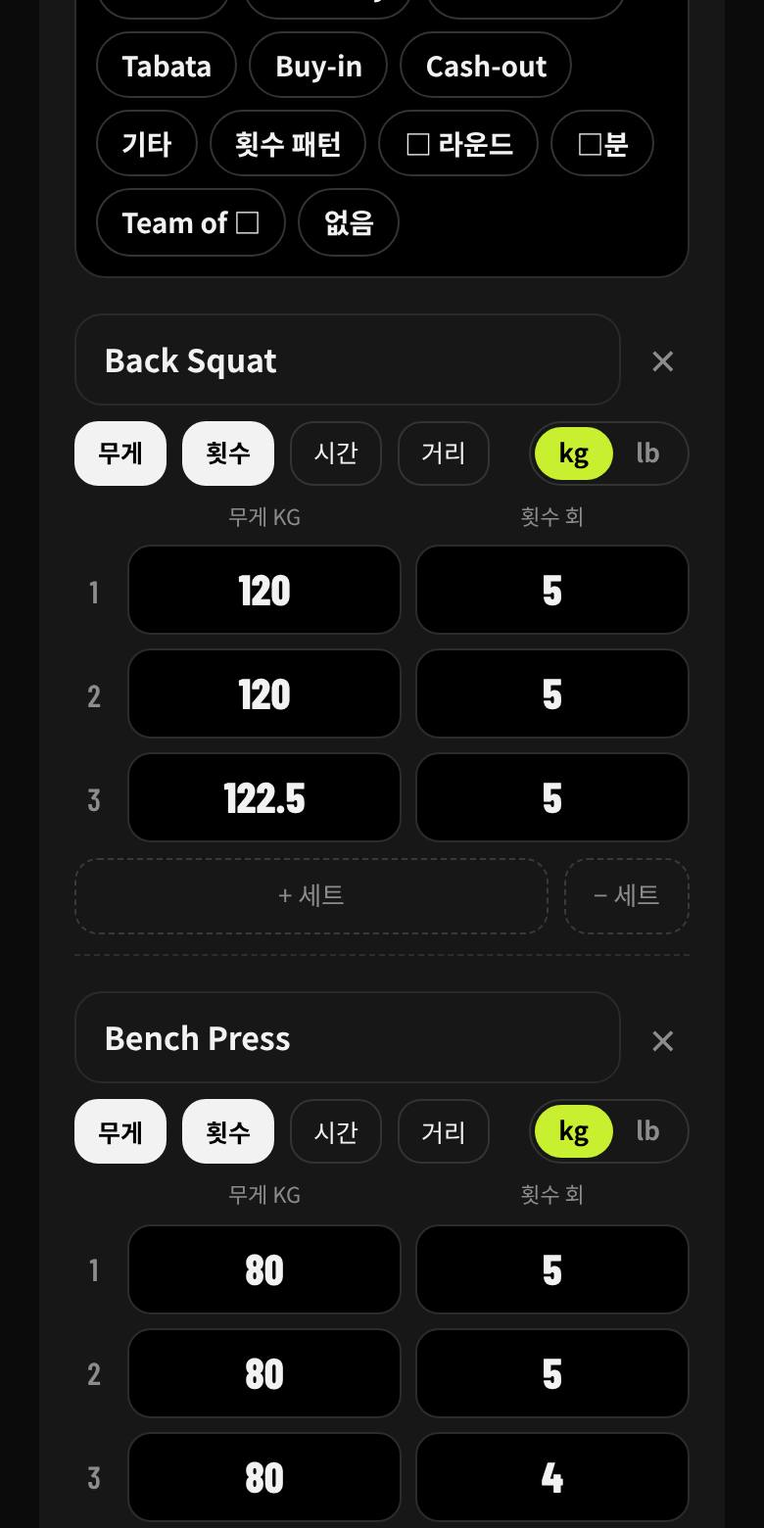
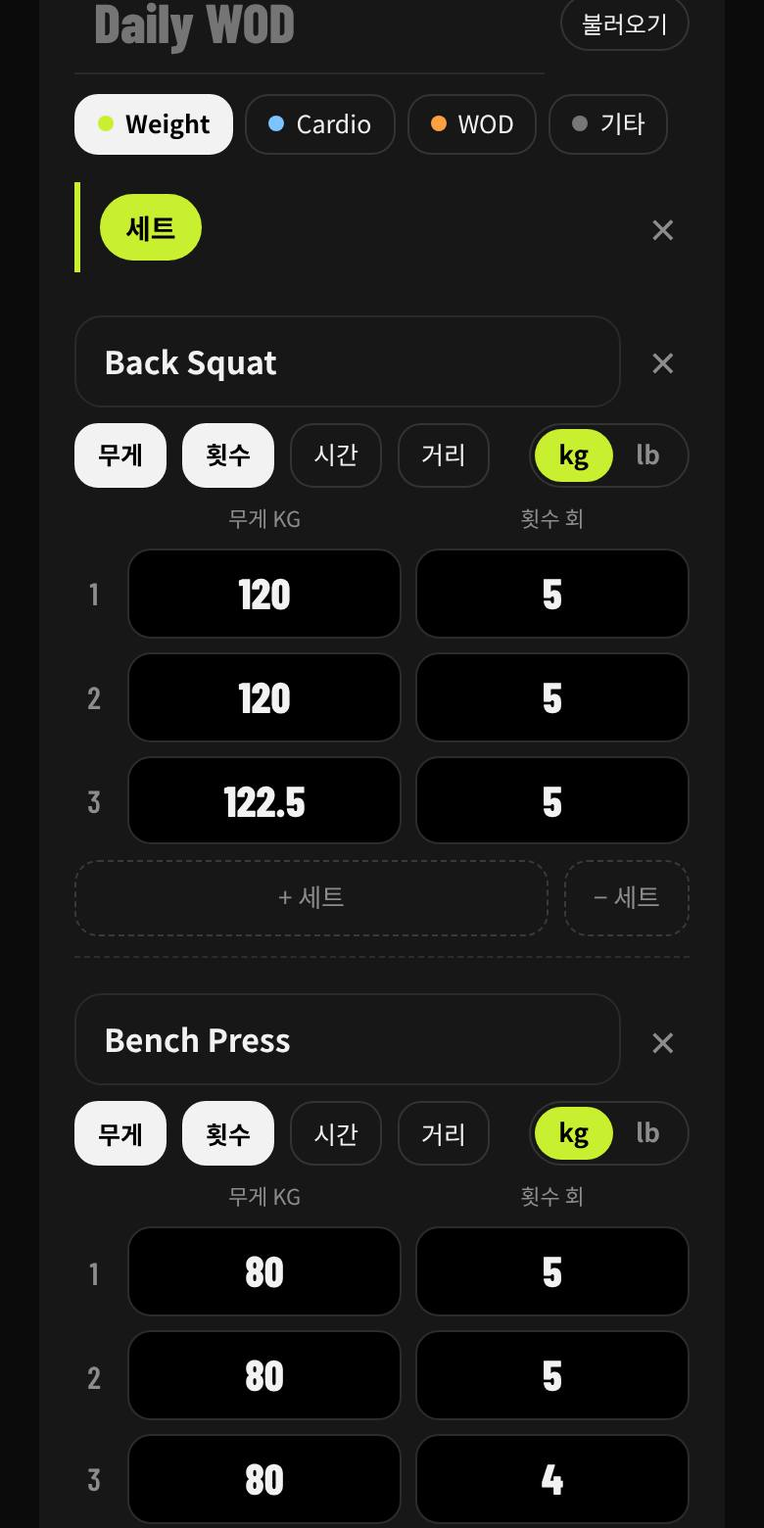
One card per record, category on the card, + 구성 adds lines between exercises, record on the picked day (future opens a plan)
Claude-Session: https://claude.ai/code/session_019eoxjeUYsC1xCLQy9vy9QX

diff --git a/index.html b/index.html
@@ -171,6 +171,8 @@ textarea.inp{resize:vertical;min-height:70px;line-height:1.6}
 .btnrow>.btn{flex:1;min-width:0;white-space:nowrap;overflow:hidden;text-overflow:ellipsis;padding-left:8px;padding-right:8px}
 .chip .dot{display:inline-block;width:8px;height:8px;border-radius:50%;margin-right:6px;vertical-align:1px}
 .smv{display:flex;flex-direction:column;gap:8px;padding:10px 0;border-bottom:1px dashed #2e2e2e}
+.cfg{display:flex;align-items:center;gap:8px;padding:6px 0 6px 10px;border-left:3px solid var(--lime);margin:4px 0}
+.cfg .c2{pointer-events:none}
 .toast{position:absolute;left:50%;top:18px;transform:translateX(-50%);background:var(--lime);color:#000;padding:10px 16px;border-radius:999px;font-size:13px;font-weight:700;z-index:30;white-space:nowrap}
 .search{background:var(--card);border:1px solid var(--line);border-radius:14px;padding:11px 14px;width:100%}
 .cat-row{display:flex;align-items:center;gap:12px;padding:12px 0;border-top:1px solid var(--line);font-size:15px}
@@ -371,6 +373,9 @@ const partRes = p => (p.fmt?.id !== 'none' && p.fmt?.res) || pList(p).map(x => x
 const pList = p => p.pats || (p.pat ? [p.pat] : []);
 const patsLabel = p => pList(p).map(patLabel).filter(Boolean).join(' · ');
 const schemeOfP = p => pList(p).map(schemeOf).find(Boolean) || '';
+/* 구성 lines sit between exercise rows: each has "at" = the row it comes before; a row takes the rep scheme of the last line above it */
+const cfgLines = p => [...(p.fmt?.id && p.fmt.id !== 'none' ? [{kind:'fmt', at:p.fmtAt || 0}] : []), ...pList(p).map((x, k) => ({kind:'pat', k, at:x.at || 0}))].sort((a, b) => a.at - b.at);
+const schemeAt = (p, j) => { let sc = ''; for (const l of cfgLines(p)) if (l.kind === 'pat' && l.at <= j) sc = schemeOf(pList(p)[l.k]) || sc; return sc; };
 const oldPat = p => p && !p.tpl ? patFrom(DEF_PATTERNS.find(t => t.id === p.kind) || DEF_PATTERNS[0], p.v) : p;
 /* "없음": a part with no format; the label stays empty so summaries skip it */
 const NO_FMT = {id:'none', label:'', res:'text'};
@@ -537,6 +542,7 @@ const wodById = id => allNamed().find(w => w.id === id) || state.mine.find(w => 
 const sorted = () => [...state.sessions].sort((a,b) => a.date.localeCompare(b.date));
 const sessionsOn = ds => state.sessions.filter(s => s.date === ds);
 const autoCat = s => { const it = s.items[0]; if (!it) return 'etc'; const k = it.type !== 'wod' ? exById(it.exId)?.cat : it.parts.length === 1 && onlySets(it.parts[0]) ? mvEx(it.parts[0].moves.find(m => m.n.trim()) || {})?.cat : 'wod'; return state.cats.some(c => c.k === k) ? k : 'etc'; };
+const cardCat = it => it.cat && state.cats.some(c => c.k === it.cat) ? it.cat : autoCat({items:[it]});
 const sessionCat = s => s.cat && state.cats.some(c => c.k === s.cat) ? s.cat : autoCat(s);
 
 /* ---------- plans ---------- */
@@ -641,8 +647,8 @@ function render(keep) {
 const GUIDE_KEY = 'setlog-guide-seen';
 const GUIDE = [
   ['캘린더', '날짜를 누르면 그날 기록이 보여요. 칸 아래 색 막대는 기록, 테두리만 있는 건 계획이에요.'],
-  ['기록하기', '구성에서 세트를 고르면 운동마다 세트별 무게와 횟수를 적어요. 지난 무게가 미리 채워져요.'],
-  ['WOD 기록', '방식(For Time, 21-15-9…)은 여러 개 고를 수 있어요. + 방식은 같은 묶음에, + 구간은 A, B로 나눠 기록해요.'],
+  ['기록하기', '+ 구성에서 세트를 넣으면 운동마다 세트별 무게와 횟수를 적어요. 지난 무게가 미리 채워져요.'],
+  ['WOD 기록', '+ 구성을 누를 때마다 For Time, 21-15-9 같은 줄이 하나씩 쌓여요. + 구간은 A, B로 나눠 기록해요.'],
   ['WOD 모음', '네임드 WOD와 내가 만든 WOD를 저장해 두고 바로 불러와요. 네임드 WOD도 직접 추가할 수 있어요.'],
   ['돌아보기', '주간 목표 연속 기록과 운동별 성장 그래프를 봐요.']
 ];
@@ -694,7 +700,7 @@ function viewCal() {
   ${ui.view !== 'list' ? `<div class="legend">${cats().filter(c => !ui.hidden.includes(c.k)).map(c => `<span><i style="background:${c.color}"></i>${c.label}</span>`).join('')}<span><i style="border:1.5px dashed #888;height:6px"></i>계획</span></div>
   <div class="eb" style="${ui.sel === TODAY() ? 'color:var(--lime)' : ''}">${dayLabel(ui.sel)}${ui.sel === TODAY() ? ' · 오늘' : ''}</div>
   <div class="card list" style="padding:4px 16px">${ev.map(e => entryRow(e, ui.sel)).join('') || `<div class="empty">${ui.sel > TODAY() ? '이날은 계획이 없어요.' : '이날은 기록이 없어요.'}</div>`}</div>` : ''}
-  <div class="sticky"><button class="btn lime" id="recBtn" data-action="record">+ 기록하기</button></div>`;
+  <div class="sticky"><button class="btn lime" id="recBtn" data-action="record">${ui.sel > TODAY() ? `+ ${md(ui.sel)} 계획 만들기` : ui.sel === TODAY() ? '+ 기록하기' : `+ ${md(ui.sel)} 기록하기`}</button></div>`;
 }
 function entryRow(e, ds) {
   const d = parseYmd(ds);
@@ -724,7 +730,7 @@ function pageDay() {
     const wodHero = s.items.filter(i => i.type === 'wod').map(it => { const b = bestWod(it.wodId, s.id), multi = it.parts.length > 1, p0 = it.parts[0];
       return `<div class="hero"><div class="row between"><span class="eb" style="font-weight:700">${esc([it.name, multi ? '' : p0?.fmt.label, multi ? '' : p0 && patsLabel(p0)].filter(Boolean).join(' · '))}</span><span class="pill" style="background:#000;color:var(--lime);border-color:#000;font-weight:700">${esc(it.scale || 'Rx')}</span></div>
       <div class="n" style="font-size:100px;margin-top:2px">${esc(wodResult(it) || '-')}</div><div class="sub">${it.wodId ? b ? `이전 최고 ${esc(b.txt)}` : '첫 기록' : ''}${it.partner ? ` · 파트너 ${esc(it.partner)}` : ''}</div>
-      <div style="margin-top:10px;padding-top:10px;border-top:1px solid rgba(0,0,0,.15);font-weight:500;line-height:1.6">${it.parts.map((p, pi) => `${multi ? `<div style="font-weight:800;margin-top:${pi ? 8 : 0}px">${String.fromCharCode(65 + pi)} · ${esc([p.fmt.label, patsLabel(p), partResult(p)].filter(Boolean).join(' · '))}</div>` : ''}${p.moves.map(m => `<div>${esc(m.sets?.length ? `${m.n} ${setsText(m, mvEx(m) || {unit:'km'})}${m.fields?.includes('w') ? ' ' + (m.u || 'kg') : ''}` : [m.q ? qTxt(m.q) : schemeOfP(p), m.n, m.w].filter(Boolean).join(' '))}</div>`).join('')}`).join('')}</div></div>`; }).join('');
+      <div style="margin-top:10px;padding-top:10px;border-top:1px solid rgba(0,0,0,.15);font-weight:500;line-height:1.6">${it.parts.map((p, pi) => `${multi ? `<div style="font-weight:800;margin-top:${pi ? 8 : 0}px">${String.fromCharCode(65 + pi)} · ${esc([p.fmt.label, patsLabel(p), partResult(p)].filter(Boolean).join(' · '))}</div>` : ''}${p.moves.map((m, j) => `<div>${esc(m.sets?.length ? `${m.n} ${setsText(m, mvEx(m) || {unit:'km'})}${m.fields?.includes('w') ? ' ' + (m.u || 'kg') : ''}` : [m.q ? qTxt(m.q) : schemeAt(p, j), m.n, m.w].filter(Boolean).join(' '))}</div>`).join('')}`).join('')}</div></div>`; }).join('');
     return `<div><div class="eb">${s.mood ? `${s.mood} ${MOODS.find(m => m[0] === s.mood)?.[1] || ''}` : ''}</div><h1 class="disp" style="font-size:52px;margin-top:4px">${esc(s.title || '운동')}</h1>
       <div class="sub" style="margin-top:6px">${[s.duration ? `${s.duration}분` : '', s.place, plan ? `${repeatText(plan)} 계획` : ''].filter(Boolean).map(esc).join(' · ')}</div></div>
       ${heroHtml}${wodHero}
@@ -759,11 +765,10 @@ function pageEdit() {
   ${plan ? `<div class="row wrap" style="gap:8px"><span class="pill lime">${esc(repeatText(plan))} · ${esc(plan.title)} 불러옴</span><span class="sub" style="font-size:12px">지난 무게를 미리 채웠어요</span></div>` : ''}
   <datalist id="exNames">${state.exercises.map(e => `<option value="${esc(e.name)}">`).join('')}</datalist>
   <input class="inp big" id="dTitle" data-d="title" value="${esc(d.title)}" placeholder="오늘 운동 제목 (예: 하체 데이)" aria-label="운동 제목">
-  <div><div class="eb" style="margin-bottom:8px">캘린더 카테고리</div><div class="chips">${cats().map(c => `<button class="chip sm" aria-pressed="${(d.cat || autoCat(d)) === c.k}" data-action="d-cat" data-v="${c.k}"><i class="dot" style="background:${c.color}"></i>${esc(c.label)}</button>`).join('')}</div></div>
   <div><div class="eb" style="margin-bottom:8px">오늘 컨디션</div><div class="chips">${MOODS.map(([e, l]) => `<button class="chip" aria-pressed="${d.mood === e}" data-action="mood" data-v="${e}">${e} ${l}</button>`).join('')}</div></div>
   ${d.items.map((it, i) => it.type === 'wod' ? wodCard(it, i) : exEditCard(it, i)).join('') || '<div class="card empty">아래에서 카드를 추가해 주세요.</div>'}
   ${ui.grouping ? `<div class="groupbar"><span class="sub" style="color:var(--ink)">${ui.groupSel.length}개 선택</span><span class="grow"></span><button class="pill" data-action="group-cancel">취소</button><button class="btn lime small" style="width:auto;padding:10px 18px" data-action="group-do">WOD로 묶기</button></div>`
-    : `<div class="row" style="gap:8px"><button class="btn out small" data-action="add-daily">+ 카드 추가</button><button class="btn out small" data-action="pick-wod">WOD 불러오기</button></div>`}
+    : ''}
   <div class="field"><span class="eb">메모</span><textarea class="inp" id="dMemo" data-d="memo" placeholder="오늘 느낀 점, 다음에 신경 쓸 것">${esc(d.memo)}</textarea></div>
   <input class="inp" id="dPlace" data-d="place" value="${esc(d.place)}" placeholder="장소 (선택)" aria-label="장소">`;
 }
@@ -788,21 +793,10 @@ function usage() { const c = {}; for (const s of state.sessions) for (const it o
 /* one 방식 row: tap to pick or unpick, several at once; a chip with N shows its number box below */
 const chipList = () => [...state.formats, ...state.patterns];
 const chipOn = (fmtId, pats, x) => fmtId === x.id || pats.some(y => y.t === x.id);
-function frameChips(i, pi, p) {
-  const ps = pList(p);
-  if (ui.frEdit) return `<div class="chips2">${chipList().map(x => `<button class="c2" data-action="fr-edit" data-kind="${chipKind(x)}" data-id="${x.id}">${esc(chipText(x))}<span class="x" data-action="fr-del" data-kind="${chipKind(x)}" data-id="${x.id}" role="button" aria-label="${esc(x.label)} 삭제">✕</span></button>`).join('')}<button class="c2 add" data-action="fr-edit">+ 추가</button></div>`;
-  return `<div class="chips2">${chipList().map(x => `<button class="c2 ${chipOn(p.fmt.id, ps, x) ? 'on' : ''}" data-action="set-chip" data-i="${i}" data-pi="${pi}" data-v="${x.id}" data-lp="${chipKind(x)}:${x.id}">${esc(chipText(x))}</button>`).join('')}<button class="c2 ${p.fmt.id === 'none' && !ps.length ? 'on' : ''}" data-action="set-chip" data-i="${i}" data-pi="${pi}" data-v="none">없음</button></div>
-    ${patBoxes(i, pi, p)}`;
-}
-function patBoxes(i, pi, p, short) {
-  const ps = pList(p), dup = x => ps.filter(y => y.t === x.t).length > 1;
-  return ps.map((x, k) => hasN(x) ? `<div class="row" style="gap:6px">${patInput(chipById(x.t) || x, x.v, `data-patv="${pi}" data-pk="${k}" data-i="${i}"`)}${dup(x) ? `<button class="icon" data-action="pat-del" data-i="${i}" data-pi="${pi}" data-pk="${k}" aria-label="${esc(x.label)} 빼기">✕</button>` : ''}</div>` + (short ? '' : recentPat(chipById(x.t) || x, `data-action="set-patv" data-i="${i}" data-pi="${pi}" data-pk="${k}"`)) : '').join('');
-}
-/* "+ 방식": one more chip in the same group of exercises (21-15-9 and 42-30-18 together), no new section */
 function sheetChipAdd(i, pi) {
   ui.sheet = () => sheetChipAdd(i, pi);
-  openSheet(`<div class="row between"><h2 class="disp" style="font-size:28px">방식 추가</h2><button class="pill" data-action="close-sheet">닫기</button></div>
-    <div class="sub" style="font-size:13px">구간을 나누지 않고 이 운동들에 방식을 하나 더 넣어요. 같은 칩도 여러 번 넣을 수 있어요. 예: 21-15-9 + 42-30-18</div>
+  openSheet(`<div class="row between"><h2 class="disp" style="font-size:28px">구성 추가</h2><button class="pill" data-action="frames-open">구성 편집</button></div>
+    <div class="sub" style="font-size:13px">고른 구성이 카드에 한 줄로 들어가요. 그 아래에 운동을 넣으면 돼요. 예: 21-15-9 → 운동들 → 42-30-18 → 운동들</div>
     <div class="chips2">${chipList().map(x => `<button class="c2" data-action="chip-add-pick" data-i="${i}" data-pi="${pi}" data-v="${x.id}">${esc(chipText(x))}</button>`).join('')}</div>`);
 }
 /* pick or unpick chip id on {fmt, pats}; the first picked format chip stays in fmt (it sets how the result is written) */
@@ -828,25 +822,32 @@ function resInput(attrs, v, type) {
   const R = RES_TYPES[type] || RES_TYPES.text;
   return `<input ${attrs} inputmode="${R.mode}" value="${esc(v || '')}" placeholder="${R.ph || '결과'}">`;
 }
+function cfgLineHtml(i, pi, p, l) {
+  const del = `<button class="icon" data-action="cfg-del" data-i="${i}" data-pi="${pi}" data-kind="${l.kind}" data-k="${l.k ?? ''}" aria-label="구성 빼기">✕</button>`;
+  if (l.kind === 'fmt') return `<div class="cfg"><span class="c2 on">${esc(p.fmt.label)}</span><span class="grow"></span>${del}</div>`;
+  const x = pList(p)[l.k], t = chipById(x.t) || x;
+  return hasN(x) ? `<div class="cfg">${patInput(t, x.v, `data-patv="${pi}" data-pk="${l.k}" data-i="${i}"`)}<span class="grow"></span>${del}</div>${x.v ? '' : recentPat(t, `data-action="set-patv" data-i="${i}" data-pi="${pi}" data-pk="${l.k}"`)}`
+    : `<div class="cfg"><span class="c2 on">${esc(chipText(t))}</span><span class="grow"></span>${del}</div>`;
+}
 function partHtml(it, i, p, pi) {
-  const multi = it.parts.length > 1, scheme = schemeOfP(p);
-  const head = multi
-    ? `<div class="fdiv"><span class="t">${String.fromCharCode(65 + pi)}</span><button class="c2 on" data-action="frame-edit" data-i="${i}" data-pi="${pi}">${esc(p.fmt.label || '방식 없음')}</button>${pList(p).map(x => `<button class="c2 val" data-action="frame-edit" data-i="${i}" data-pi="${pi}">${esc(patLabel(x))}</button>`).join('')}<span class="grow"></span><button class="icon" data-action="part-del" data-i="${i}" data-pi="${pi}" aria-label="${String.fromCharCode(65 + pi)} 구간 없애기">✕</button></div>${patBoxes(i, pi, p, true)}`
-    : `<div class="frame"><div class="row between"><span class="lbl">구성</span><button class="pill ${ui.frEdit ? 'lime' : ''}" style="font-size:12px;padding:3px 10px" data-action="fr-toggle">${ui.frEdit ? '완료' : '편집'}</button></div>${frameChips(i, pi, p)}${ui.frEdit ? '<div class="sub" style="font-size:12px">칩을 누르면 수정, ✕는 삭제예요. 칩을 꾹 누르면 순서도 바꿀 수 있어요.</div>' : ''}</div>`;
+  const multi = it.parts.length > 1, L = cfgLines(p), n = p.moves.length;
+  const linesAt = j => L.filter(l => j === n ? l.at >= n : l.at === j).map(l => cfgLineHtml(i, pi, p, l)).join('');
+  const head = multi ? `<div class="fdiv"><span class="t">${String.fromCharCode(65 + pi)}</span><span class="grow"></span><button class="icon" data-action="part-del" data-i="${i}" data-pi="${pi}" aria-label="${String.fromCharCode(65 + pi)} 구간 없애기">✕</button></div>` : '';
   const ord = ui.mvOrder === i, first = pi === 0, last = pi === it.parts.length - 1, sm = isSetPart(p);
-  const rows = sm && !ord ? p.moves.map((m, j) => setMoveHtml(i, pi, ensureSets(m), j)).join('') : ord ? p.moves.map((m, j) => `<div class="mvo"><span class="q">${esc(qTxt(m.q) || scheme || '')}</span><span class="t">${esc(m.n || '(빈 칸)')}</span>${m.w ? `<span class="w">${esc(m.w)}</span>` : ''}<button class="icon" data-action="mv-move" data-i="${i}" data-pi="${pi}" data-j="${j}" data-d="-1" ${first && j === 0 ? 'disabled' : ''} aria-label="${j+1}번 위로">↑</button><button class="icon" data-action="mv-move" data-i="${i}" data-pi="${pi}" data-j="${j}" data-d="1" ${last && j === p.moves.length - 1 ? 'disabled' : ''} aria-label="${j+1}번 아래로">↓</button></div>`).join('')
-    : p.moves.map((m, j) => `<div class="mv"><input class="q" data-mv="${j}" data-pi="${pi}" data-i="${i}" data-k="q" value="${esc(m.q)}" placeholder="${esc(scheme || '10')}" aria-label="${j+1}번 횟수"><input class="ex" data-mv="${j}" data-pi="${pi}" data-i="${i}" data-k="n" value="${esc(m.n)}" placeholder="운동" aria-label="${j+1}번 운동"><div class="wcell"><input class="w" data-mv="${j}" data-pi="${pi}" data-i="${i}" data-k="w" value="${esc(wNum(m.w))}" placeholder="-" aria-label="${j+1}번 무게"><button class="wu" data-action="mv-wu" data-i="${i}" data-pi="${pi}" data-j="${j}" aria-label="${j+1}번 무게 단위 바꾸기">${mvUnit(m)}</button></div><button class="icon" data-action="mv-del" data-i="${i}" data-pi="${pi}" data-j="${j}" aria-label="${j+1}번 운동 빼기">✕</button></div>
-      <div class="sug" id="sug-${i}-${pi}-${j}"></div>${j < p.moves.length - 1 ? `<button class="ins" data-action="frame-insert" data-i="${i}" data-pi="${pi}" data-j="${j + 1}" aria-label="여기서 구간 나누기"><b>구간 나누기</b></button>` : ''}`).join('');
+  const row = (m, j) => sm ? setMoveHtml(i, pi, ensureSets(m), j) : `<div class="mv"><input class="q" data-mv="${j}" data-pi="${pi}" data-i="${i}" data-k="q" value="${esc(m.q)}" placeholder="${esc(schemeAt(p, j) || '10')}" aria-label="${j+1}번 횟수"><input class="ex" data-mv="${j}" data-pi="${pi}" data-i="${i}" data-k="n" value="${esc(m.n)}" placeholder="운동" aria-label="${j+1}번 운동"><div class="wcell"><input class="w" data-mv="${j}" data-pi="${pi}" data-i="${i}" data-k="w" value="${esc(wNum(m.w))}" placeholder="-" aria-label="${j+1}번 무게"><button class="wu" data-action="mv-wu" data-i="${i}" data-pi="${pi}" data-j="${j}" aria-label="${j+1}번 무게 단위 바꾸기">${mvUnit(m)}</button></div><button class="icon" data-action="mv-del" data-i="${i}" data-pi="${pi}" data-j="${j}" aria-label="${j+1}번 운동 빼기">✕</button></div>
+      <div class="sug" id="sug-${i}-${pi}-${j}"></div>${j < n - 1 ? `<button class="ins" data-action="frame-insert" data-i="${i}" data-pi="${pi}" data-j="${j + 1}" aria-label="여기서 구간 나누기"><b>구간 나누기</b></button>` : ''}`;
+  const rows = ord ? p.moves.map((m, j) => `<div class="mvo"><span class="q">${esc(qTxt(m.q) || schemeAt(p, j) || '')}</span><span class="t">${esc(m.n || '(빈 칸)')}</span>${m.w ? `<span class="w">${esc(m.w)}</span>` : ''}<button class="icon" data-action="mv-move" data-i="${i}" data-pi="${pi}" data-j="${j}" data-d="-1" ${first && j === 0 ? 'disabled' : ''} aria-label="${j+1}번 위로">↑</button><button class="icon" data-action="mv-move" data-i="${i}" data-pi="${pi}" data-j="${j}" data-d="1" ${last && j === n - 1 ? 'disabled' : ''} aria-label="${j+1}번 아래로">↓</button></div>`).join('')
+    : p.moves.map((m, j) => linesAt(j) + (j || sm ? '' : '<div class="mv hd"><div>횟수</div><div>운동</div><div>무게</div><div></div></div>') + row(m, j)).join('') + linesAt(n);
   const pres = multi ? `<div class="secres"><span>${String.fromCharCode(65 + pi)} 결과</span>${partRes(p) === 'done' ? `<button class="mini-p ${p.res?.status === 'DONE' ? 'on' : ''}" data-action="part-done" data-i="${i}" data-pi="${pi}">DONE</button>` : resInput(`data-pres="${pi}" data-i="${i}" aria-label="${String.fromCharCode(65 + pi)} 결과"`, p.res?.v, partRes(p))}</div>` : '';
-  return `<div class="part">${head}${ord || sm ? '' : '<div class="mv hd"><div>횟수</div><div>운동</div><div>무게</div><div></div></div>'}${rows}
-    ${ord ? (last ? `<button class="addex" style="color:#000;background:var(--lime);border-color:var(--lime);text-align:center;font-weight:700" data-action="mv-order" data-i="${i}">순서 바꾸기 완료</button>` : '') : `<div class="row" style="gap:6px"><button class="addex grow" data-action="mv-find" data-i="${i}" data-pi="${pi}">+ 운동</button>${last && wodMoves(it).length > 1 ? `<button class="addex" data-action="mv-order" data-i="${i}">순서</button>` : ''}<button class="addex" data-action="chip-add" data-i="${i}" data-pi="${pi}">+ 방식</button><button class="addex" style="color:var(--lime);border-color:var(--lime)" data-action="frame-insert" data-i="${i}" data-pi="${pi}" data-j="${p.moves.length}">+ 구간</button></div>`}
-    ${scheme && !multi ? `<div class="note">횟수는 구성(${esc(scheme)})에서 자동으로 채워져요</div>` : ''}${pres}</div>`;
+  return `<div class="part">${head}${rows}
+    ${ord ? (last ? `<button class="addex" style="color:#000;background:var(--lime);border-color:var(--lime);text-align:center;font-weight:700" data-action="mv-order" data-i="${i}">순서 바꾸기 완료</button>` : '') : `<div class="row" style="gap:6px"><button class="addex grow" data-action="mv-find" data-i="${i}" data-pi="${pi}">+ 운동</button>${last && wodMoves(it).length > 1 ? `<button class="addex" data-action="mv-order" data-i="${i}">순서</button>` : ''}<button class="addex" style="color:var(--lime);border-color:var(--lime)" data-action="chip-add" data-i="${i}" data-pi="${pi}">+ 구성</button><button class="addex" data-action="frame-insert" data-i="${i}" data-pi="${pi}" data-j="${n}">+ 구간</button></div>`}
+    ${pres}</div>`;
 }
 /* live preview of what is being recorded, shown in the result box and redrawn on every keystroke */
 function wodSum(it) {
   const multi = it.parts.length > 1;
   return it.parts.map((p, pi) => { const head = [multi ? String.fromCharCode(65 + pi) : '', p.fmt.label, patsLabel(p), multi ? partResult(p) : ''].filter(Boolean).join(' · ');
-    const ms = p.moves.filter(m => m.n.trim()).map(m => `<div>${esc([m.q ? qTxt(m.q) : schemeOfP(p), m.n.trim(), m.w].filter(Boolean).join(' '))}</div>`).join('');
+    const ms = p.moves.map((m, j) => m.n.trim() ? `<div>${esc([m.q ? qTxt(m.q) : schemeAt(p, j), m.n.trim(), m.w].filter(Boolean).join(' '))}</div>` : '').join('');
     return `<div class="sh">${esc(head)}</div>${ms || '<div style="opacity:.5">운동을 적으면 여기에 보여요</div>'}`; }).join('');
 }
 function updateSum(i) { const el = document.getElementById(`wsum-${i}`), it = curItems()?.[+i]; if (el && it?.type === 'wod') el.innerHTML = wodSum(it); const pv = document.querySelector(`[data-respv="${i}"]`); if (pv && it?.type === 'wod') pv.textContent = wodResult(it) || '-'; }
@@ -879,7 +880,8 @@ function wodCard(it, i) {
   const mine = it.wodId && state.mine.some(w => w.id === it.wodId);
   return `<div class="card wc">
     <div class="row between" style="gap:8px"><input class="inp big" data-wn="${i}" value="${esc(it.name)}" placeholder="${tpl ? 'WOD 제목' : 'Daily WOD'}" aria-label="WOD 제목" style="font-family:var(--num);font-weight:800;font-size:28px;padding:6px 10px">
-      ${it.wodId && !tpl ? '<span class="pill lime">불러옴</span>' : ''}${tpl ? '' : `<button class="icon" data-action="remove-item" data-i="${i}" aria-label="WOD 빼기">✕</button>`}</div>
+      ${it.wodId && !tpl ? '<span class="pill lime">불러옴</span>' : ''}${tpl ? '' : `<button class="pill" style="font-size:12px;padding:5px 10px;white-space:nowrap" data-action="pick-wod" data-i="${i}">불러오기</button>`}${tpl || curItems().length < 2 ? '' : `<button class="icon" data-action="remove-item" data-i="${i}" aria-label="WOD 빼기">✕</button>`}</div>
+    ${tpl ? '' : `<div class="row" style="gap:6px;flex-wrap:wrap">${cats().map(c => `<button class="chip sm" aria-pressed="${cardCat(it) === c.k}" data-action="card-cat" data-i="${i}" data-v="${c.k}"><i class="dot" style="background:${c.color}"></i>${esc(c.label)}</button>`).join('')}</div>`}
     ${it.parts.map((p, pi) => partHtml(it, i, p, pi)).join('')}
     ${freq.length ? `<div class="lbl">자주 한 운동</div><div class="chips2">${freq.map(e => `<button class="c2" data-action="mv-quick" data-i="${i}" data-id="${e.id}">${esc(e.name)}</button>`).join('')}</div>` : ''}
     ${tpl ? '' : wodResultBox(it, i)}
@@ -1097,7 +1099,7 @@ function sheetPickEx() {
     <input class="search" id="pickQ" type="search" placeholder="운동 검색" value="${esc(ui.pickQ)}" aria-label="운동 검색">
     <div class="chips">${[{k:'all', label:'전체'}, ...exCats()].map(c => `<button class="chip sm" aria-pressed="${ui.pickCat === c.k}" data-action="pick-cat" data-v="${c.k}">${c.label}</button>`).join('')}</div>
     <div id="pickList" style="display:flex;flex-direction:column;gap:10px">${pickList()}</div>`
-  : `<div class="row between"><h2 class="disp" style="font-size:30px">WOD 불러오기</h2><button class="pill" data-action="close-sheet">닫기</button></div>
+  : `<div class="row between"><h2 class="disp" style="font-size:30px">WOD 불러오기</h2>${ui.swapCard != null && !isBlankCard(curItems()[ui.swapCard] || {parts:[]}) ? '<span class="sub" style="font-size:12px">지금 카드 내용이 바뀌어요</span>' : ''}<button class="pill" data-action="close-sheet">닫기</button></div>
     <input class="search" id="pickQ" type="search" placeholder="WOD 검색" value="${esc(ui.pickQ)}" aria-label="WOD 검색">
     <div id="pickList" style="display:flex;flex-direction:column;gap:10px">${pickList()}</div>`);
 }
@@ -1200,8 +1202,8 @@ function toCards(items) {
   return out;
 }
 const isBlankCard = it => it.type === 'wod' && !it.wodId && !(it.name || '').trim() && !wodResult(it) && it.parts.every(p => p.fmt.id === 'none' && !pList(p).length && p.moves.every(m => !m.n.trim()));
-function pushCard(d, it) { if (d.items.length === 1 && isBlankCard(d.items[0])) d.items = [it]; else d.items.push(it); }
-function openEditor(draft) { draft.items = toCards(draft.items); if (!draft.items.length) draft.items.push(dailyItem()); ui.mvOrder = null; ui.draft = draft; ui.page = 'edit'; ui.confirm = null; closeSheet(); render(); }
+function pushCard(d, it) { const k = ui.swapCard; ui.swapCard = null; if (k != null && d.items[k]) { it.cat ||= d.items[k].cat; d.items[k] = it; } else if (d.items.length === 1 && isBlankCard(d.items[0])) d.items = [it]; else d.items.push(it); }
+function openEditor(draft) { draft.items = toCards(draft.items); if (!draft.items.length) draft.items.push(dailyItem()); if (draft.cat && !draft.items[0].cat) draft.items[0].cat = draft.cat; ui.mvOrder = null; ui.draft = draft; ui.page = 'edit'; ui.confirm = null; closeSheet(); render(); }
 function openDay(ds) { ui.dayDate = ds; ui.page = 'day'; ui.confirm = null; closeSheet(); render(); }
 function openPlan(p) { ui.pdraft = p; ui.page = 'plan'; ui.confirm = null; closeSheet(); render(); }
 const recordDate = () => ui.sel > TODAY() ? TODAY() : ui.sel;
@@ -1251,7 +1253,7 @@ const A = {
   view: el => { ui.view = el.dataset.v; render(true); },
   month: el => shiftMonth(+el.dataset.v),
   'go-today': () => { ui.sel = TODAY(); ui.month = ui.sel.slice(0, 7); render(true); },
-  record: () => openEditor(newDraft(recordDate())),
+  record: () => ui.tab === 'cal' && ui.sel > TODAY() ? openPlan(newPlanDraft(ui.sel)) : openEditor(newDraft(ui.tab === 'cal' ? ui.sel : TODAY())),
   'record-on': el => openEditor(newDraft(el.dataset.date)),
   'open-day': el => openDay(el.dataset.date),
   'plan-detail': el => sheetPlanDetail(el.dataset.id, el.dataset.date),
@@ -1264,10 +1266,11 @@ const A = {
   'del-session': el => { const k = 'del-' + el.dataset.id; if (ui.confirm !== k) { ui.confirm = k; return render(true); } state.sessions = state.sessions.filter(s => s.id !== el.dataset.id); save(); ui.confirm = null; if (!sessionsOn(ui.dayDate).length) ui.page = null; render(); toast('기록을 삭제했어요'); },
   'stat-ex-go': el => { ui.statEx = el.dataset.v; ui.page = null; ui.tab = 'stats'; render(); },
   // editor
-  'cancel-edit': () => { const dirty = ui.draft.items.length || ui.draft.memo || ui.draft.title; if (dirty && !ui.draft.id && ui.confirm !== 'cancel') { ui.confirm = 'cancel'; return render(true); } ui.page = ui.draft.id ? 'day' : null; ui.confirm = null; ui.grouping = false; ui.frEdit = false; render(); },
+  'cancel-edit': () => { const dirty = ui.draft.items.some(it => !isBlankCard(it)) || ui.draft.memo || ui.draft.title; if (dirty && !ui.draft.id && ui.confirm !== 'cancel') { ui.confirm = 'cancel'; return render(true); } ui.page = ui.draft.id ? 'day' : null; ui.confirm = null; ui.grouping = false; ui.frEdit = false; render(); },
   'save-edit': () => {
     const d = ui.draft;
     let added = 0;
+    d.cat = d.items.find(it => it.type === 'wod' && it.cat)?.cat || d.cat || ''; if (!d.cat && d.items[0]?.type === 'wod') d.cat = cardCat(d.items[0]);
     d.items = d.items.flatMap(it => setsOnlyCard(it) ? cardToEx(it, () => added++) : [it]);
     d.items = d.items.map(it => it.type === 'wod' ? cleanWod(it, () => added++) : it).filter(Boolean);
     d.items = d.items.map(it => it.type === 'ex' ? {...it, sets:it.sets.filter(s => it.fields.some(k => s[k] !== undefined && s[k] !== ''))} : it).filter(it => it.type === 'wod' || it.sets.length);
@@ -1277,21 +1280,26 @@ const A = {
     if (d.id) { const i = state.sessions.findIndex(s => s.id === d.id); state.sessions[i] = d; } else { d.id = uid(); state.sessions.push(d); }
     save(); ui.sel = d.date; ui.month = d.date.slice(0, 7); openDay(d.date); toast(added ? `기록을 저장했어요 · 새 운동 ${added}개를 운동목록에 넣었어요` : '기록을 저장했어요');
   },
-  'd-cat': el => { ui.draft.cat = el.dataset.v; render(true); },
+  'card-cat': el => { curItems()[+el.dataset.i].cat = el.dataset.v; render(true); },
   mood: el => { ui.draft.mood = ui.draft.mood === el.dataset.v ? '' : el.dataset.v; render(true); },
   'pick-ex': () => { ui.pickFor = null; ui.pickQ = ''; sheetPickEx(); },
   'pick-cat': el => { ui.pickCat = el.dataset.v; refreshSheet(); },
   'add-ex': el => { if (ui.pickFor) { const f = ui.pickFor, p = curItems()[f.i]?.parts[f.pi], ex = exById(el.dataset.id); if (p && ex) putMove(p, ex); ui.pickFor = null; closeSheet(); render(true); return; }
     const it = exItem(el.dataset.id, ui.draft.date); ui.draft.items.push(it); closeSheet(); render(true); toast(it.prefilled ? '지난 기록을 채웠어요' : '운동을 추가했어요'); setTimeout(() => $('#screen').scrollTo({top:$('#screen').scrollHeight, behavior:'smooth'}), 30); },
   'record-daily': () => openEditor(newDraft(recordDate())),
-  'pick-wod': () => { ui.pickFor = null; ui.pickQ = ''; sheetPickEx(); },
+  'pick-wod': el => { ui.pickFor = null; ui.swapCard = el.dataset.i !== undefined ? +el.dataset.i : null; ui.pickQ = ''; sheetPickEx(); },
   'add-daily': () => { ui.draft.items.push(dailyItem()); closeSheet(); render(true); setTimeout(() => { const t = document.querySelectorAll('[data-wn]'); t[t.length - 1]?.closest('.card')?.scrollIntoView({block:'start'}); }, 30); },
   'chip-add': el => sheetChipAdd(+el.dataset.i, +el.dataset.pi),
   'chip-add-pick': el => { const i = el.dataset.i, pi = el.dataset.pi, p = curItems()[+i].parts[+pi], x = chipById(el.dataset.v); if (!x) return;
     const before = partRes(p); p.pats = pList(p); delete p.pat;
-    if (chipKind(x) === 'fmt' && p.fmt.id === 'none') p.fmt = fmtCopy(x); else p.pats.push(patFrom(x, ''));
+    let at = 0; p.moves.forEach((m, j) => { if (m.n.trim()) at = j + 1; });
+    if (chipKind(x) === 'fmt' && p.fmt.id === 'none') { p.fmt = fmtCopy(x); p.fmtAt = at; } else p.pats.push({...patFrom(x, ''), at});
     if (partRes(p) !== before) p.res = {}; closeSheet(); render(true);
-    if (hasN(x)) { const b = document.querySelectorAll(`[data-patv="${pi}"][data-i="${i}"]`); b[b.length - 1]?.focus(); } else toast(`${x.label}을(를) 넣었어요`); },
+    if (hasN(x)) { const b = document.querySelector(`[data-patv="${pi}"][data-pk="${p.pats.length - 1}"][data-i="${i}"]`); b?.focus(); } },
+  'cfg-del': el => { const p = curItems()[+el.dataset.i].parts[+el.dataset.pi], before = partRes(p); p.pats = pList(p); delete p.pat;
+    if (el.dataset.kind === 'fmt') { const k = p.pats.findIndex(y => state.formats.some(f => f.id === y.t)); if (k >= 0) { p.fmt = fmtCopy(chipById(p.pats[k].t)); p.fmtAt = p.pats[k].at || 0; p.pats.splice(k, 1); } else { p.fmt = {...NO_FMT}; delete p.fmtAt; } }
+    else p.pats.splice(+el.dataset.k, 1);
+    if (partRes(p) !== before) p.res = {}; render(true); },
   'pat-del': el => { const p = curItems()[+el.dataset.i].parts[+el.dataset.pi]; p.pats = pList(p).filter((_, k) => k !== +el.dataset.pk); delete p.pat; render(true); },
   'rm-new': el => { ui.confirm = null; const c = rmNow(exById(el.dataset.id) || {}); ui.rmEdit = {id:el.dataset.id, v:'', u:c?.u || U(), date:TODAY()}; refreshSheet(); $('#sheet [data-rm=v]')?.focus(); },
   'rm-edit': el => { ui.confirm = null; const r = rmList(exById(el.dataset.id))[+el.dataset.k]; if (!r) return; ui.rmEdit = {id:el.dataset.id, k:+el.dataset.k, ref:{...r}, v:r.v, u:r.u, date:r.date}; refreshSheet(); },
@@ -1320,7 +1328,7 @@ const A = {
     if (j + d >= 0 && j + d < p.moves.length) { p.moves.splice(j, 1); p.moves.splice(j + d, 0, m); }
     else { const q = it.parts[pi + d]; if (!q) return; p.moves.splice(j, 1); if (d < 0) q.moves.push(m); else q.moves.unshift(m); if (!p.moves.length) p.moves.push(blankMove()); }
     render(true); },
-  'mv-del': el => { const p = curItems()[+el.dataset.i].parts[+el.dataset.pi]; p.moves.splice(+el.dataset.j, 1); if (!p.moves.length) p.moves.push(blankMove()); render(true); },
+  'mv-del': el => { const p = curItems()[+el.dataset.i].parts[+el.dataset.pi], j = +el.dataset.j; p.moves.splice(j, 1); pList(p).forEach(x => { if ((x.at || 0) > j) x.at--; }); if ((p.fmtAt || 0) > j) p.fmtAt--; if (!p.moves.length) p.moves.push(blankMove()); render(true); },
   'mv-pick': el => { const p = curItems()[+el.dataset.i].parts[+el.dataset.pi], m = p.moves[+el.dataset.j], ex = exById(el.dataset.id); if (ex) { m.n = ex.name; m.exId = ex.id; if (isSetPart(p)) fillMoveSets(m, ui.draft?.date); } render(true); },
   'mv-new': el => { const box = $(`#sug-${el.dataset.i}-${el.dataset.pi}-${el.dataset.j}`); if (box) box.innerHTML = ''; toast('저장하면 새 운동으로 추가돼요'); },
   'ms-field': el => { const m = curItems()[+el.dataset.i].parts[+el.dataset.pi].moves[+el.dataset.j], k = el.dataset.f; m.fields = m.fields.includes(k) ? m.fields.filter(x => x !== k) : Object.keys(FIELDS).filter(x => x === k || m.fields.includes(x)); render(true); },
@@ -1523,7 +1531,7 @@ document.addEventListener('input', e => {
   if (ds.f && ds.s !== undefined) { ui.draft.items[+ds.i].sets[+ds.s][ds.f] = t.value; return; }
   if (ds.ms !== undefined) { curItems()[+ds.msi].parts[+ds.mpi].moves[+ds.mj].sets[+ds.ms][ds.mf] = t.value; return; }
   if (ds.mv !== undefined) { const m = curItems()[+ds.i].parts[+ds.pi].moves[+ds.mv]; if (ds.k === 'w') { const u = mvUnit(m); m.w = /(kg|lb)$/i.test(t.value.trim()) ? t.value : t.value.trim() ? t.value.trim() + u : ''; m.u = u; updateSum(ds.i); return; } m[ds.k] = t.value; if (ds.k === 'n') { m.exId = null; showSug(t, ds); } return; }
-  if (ds.patv !== undefined) { const p = curItems()[+ds.i].parts[+ds.patv]; pList(p)[+ds.pk].v = t.value.trim(); const sc = schemeOfP(p); document.querySelectorAll(`input.q[data-i="${ds.i}"][data-pi="${ds.patv}"]`).forEach(q => q.placeholder = sc || '10'); return; }
+  if (ds.patv !== undefined) { const p = curItems()[+ds.i].parts[+ds.patv]; pList(p)[+ds.pk].v = t.value.trim(); const sc = schemeOfP(p); document.querySelectorAll(`input.q[data-i="${ds.i}"][data-pi="${ds.patv}"]`).forEach(q => q.placeholder = schemeAt(p, +q.dataset.mv) || '10'); return; }
   if (ds.framepv !== undefined) { ui.frame.pats[+ds.framepv].v = t.value.trim(); return; }
   if (ds.tabl !== undefined) { const x = state.wodTabs.find(y => y.k === ds.tabl); if (x) { x.label = t.value.trim() || x.label; save(); const b = document.querySelector(`[data-action=wod-tab][data-v="${ds.tabl}"]`); if (b) b.textContent = x.label; } return; }
   if (ds.wn !== undefined) { curItems()[+ds.wn].name = t.value; return; }

diff --git a/sw.js b/sw.js
@@ -1,4 +1,4 @@
-const C = 'setlog-1792339579002';
+const C = 'setlog-1792341385184';
 const CORE = ['./', 'index.html', 'manifest.webmanifest', 'icon-192.png', 'icon-512.png', 'apple-touch-icon.png', 'guide/1.jpg', 'guide/2.jpg', 'guide/3.jpg', 'guide/4.jpg', 'guide/5.jpg'];
 self.addEventListener('install', e => { e.waitUntil(caches.open(C).then(c => c.addAll(CORE)).then(() => self.skipWaiting())); });
 self.addEventListener('activate', e => { e.waitUntil(caches.keys().then(ks => Promise.all(ks.filter(k => k !== C).map(k => caches.delete(k)))).then(() => self.clients.claim())); });
